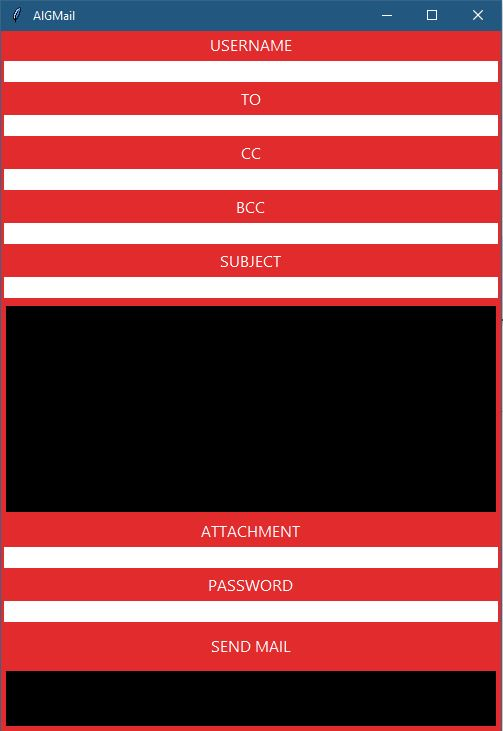
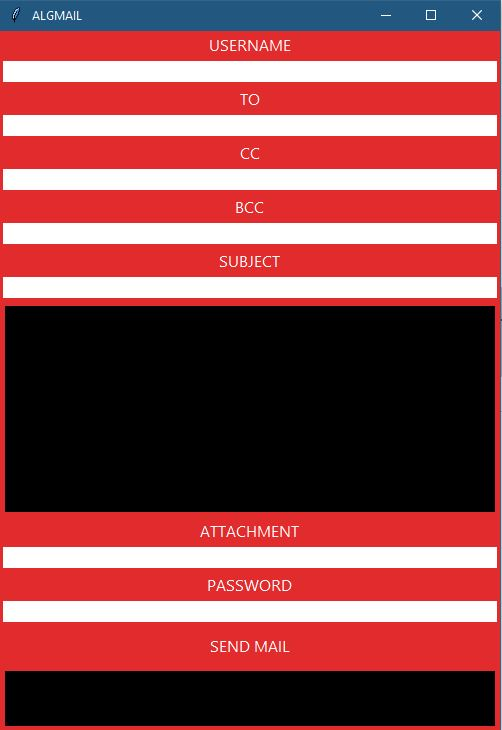
AlMail

diff --git a/AlMail.py b/AlMail.py
@@ -16,12 +16,12 @@ cwd = os.path.dirname(os.path.realpath(__file__))
 class AlMail:
     def __init__(self,mailType):
         if mailType.lower()=='gmail':
-            root= Tk(className=" AlGMail " )
+            root= Tk(className=" ALGMAIL " )
             root.geometry("500x700+1410+315")
             root.config(bg="#e22b2d")
             color='#e22b2d' 
         elif mailType.lower()=='outlook' or mailType.lower()=='hotmail' or mailType.lower()=='live':
-            root= Tk(className=" AlMicrosoft " )
+            root= Tk(className=" ALMICROSOFT " )
             root.geometry("500x700+1410+315")
             root.config(bg="#035aaa")
             color='#035aaa'      
